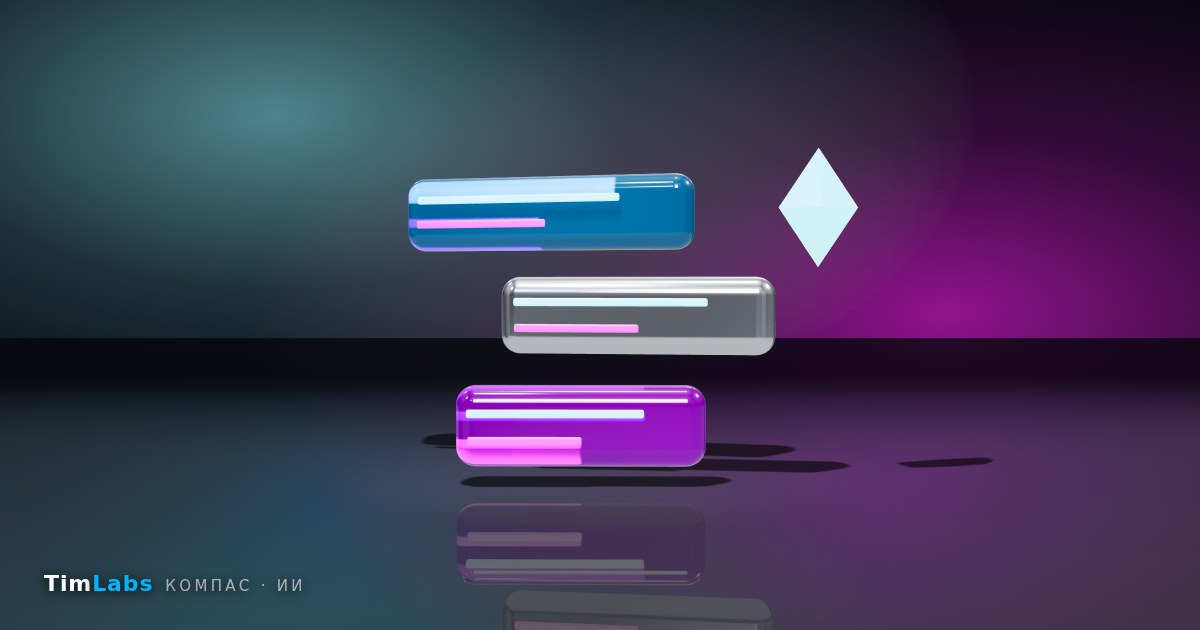
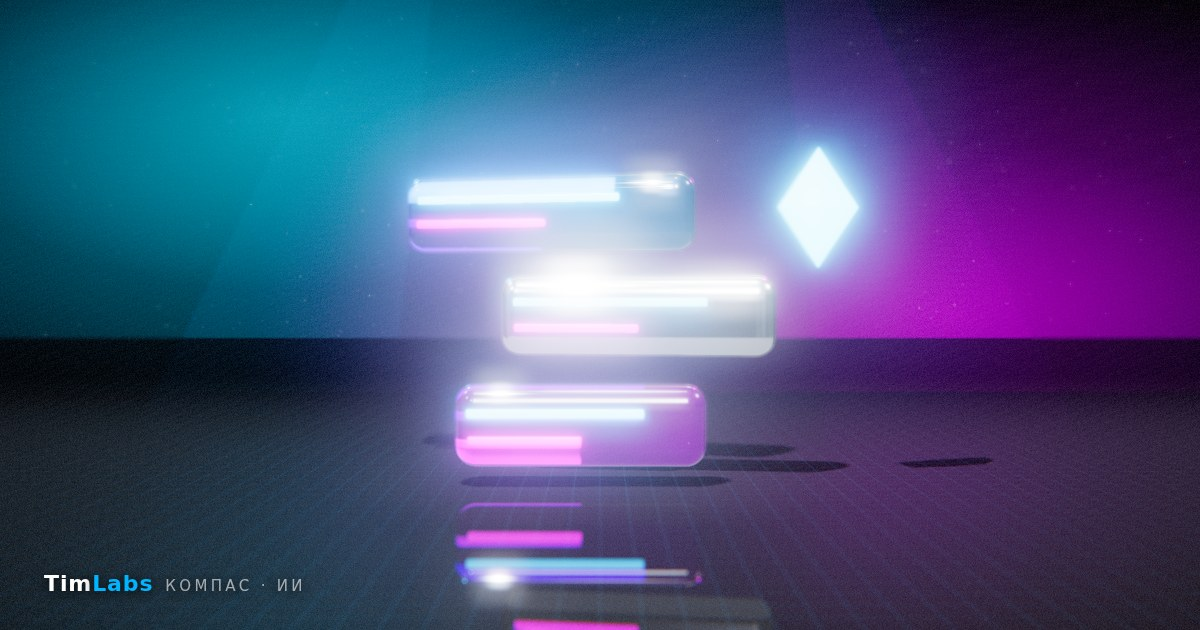
Обложки: графика как в игре — свечение неона, глубина резкости, неоновая сетка, пылинки, лучи, зерно
Claude-Session: https://claude.ai/code/session_016YepRkJqQsofeKzdWsAcDY

diff --git a/tools/covers/scene.html b/tools/covers/scene.html
@@ -9,6 +9,14 @@ import {RoundedBoxGeometry} from 'three/addons/geometries/RoundedBoxGeometry.js'
 import {FontLoader} from 'three/addons/loaders/FontLoader.js';
 import {TextGeometry} from 'three/addons/geometries/TextGeometry.js';
 import {Reflector} from 'three/addons/objects/Reflector.js';
+import {EffectComposer} from 'three/addons/postprocessing/EffectComposer.js';
+import {RenderPass} from 'three/addons/postprocessing/RenderPass.js';
+import {GTAOPass} from 'three/addons/postprocessing/GTAOPass.js';
+import {UnrealBloomPass} from 'three/addons/postprocessing/UnrealBloomPass.js';
+import {BokehPass} from 'three/addons/postprocessing/BokehPass.js';
+import {ShaderPass} from 'three/addons/postprocessing/ShaderPass.js';
+import {OutputPass} from 'three/addons/postprocessing/OutputPass.js';
+import {SMAAPass} from 'three/addons/postprocessing/SMAAPass.js';
 const P=new URLSearchParams(location.search),K=P.get('k');
 const C=['#00b4ff','#d100ff'];// фирменная гамма сайта: --cyan, --magenta
 document.documentElement.style.setProperty('--a',C[0]);
@@ -21,6 +29,10 @@ const cam=new T.PerspectiveCamera(32,1200/630,.1,100);cam.position.set(0,2.1,12.
 // floor: dark glossy
 const mir=new Reflector(new T.PlaneGeometry(60,60),{textureWidth:2400,textureHeight:1260,color:'#8a8f99'});mir.rotation.x=-Math.PI/2;s.add(mir);
 const fl=new T.Mesh(new T.PlaneGeometry(60,60),new T.MeshStandardMaterial({color:'#03040a',roughness:.6,metalness:0,transparent:true,opacity:.78,envMapIntensity:0}));fl.rotation.x=-Math.PI/2;fl.position.y=.002;s.add(fl);
+const gc=document.createElement('canvas');gc.width=gc.height=1024;const gx=gc.getContext('2d');gx.fillStyle='#000';gx.fillRect(0,0,1024,1024);
+for(let i=0;i<=16;i++){const p=i*64;for(const [c,w,a] of [[C[0],6,.10],[C[0],1.6,.55]]){gx.strokeStyle=c;gx.globalAlpha=a;gx.lineWidth=w;gx.beginPath();gx.moveTo(p,0);gx.lineTo(p,1024);gx.moveTo(0,p);gx.lineTo(1024,p);gx.stroke()}}
+gx.globalAlpha=1;const gt=new T.CanvasTexture(gc);gt.wrapS=gt.wrapT=T.RepeatWrapping;gt.repeat.set(14,14);gt.anisotropy=16;gt.colorSpace=T.SRGBColorSpace;
+const grid=new T.Mesh(new T.PlaneGeometry(60,60),new T.MeshBasicMaterial({map:gt,transparent:true,opacity:.4,blending:T.AdditiveBlending,depthWrite:false}));grid.rotation.x=-Math.PI/2;grid.position.y=.006;s.add(grid);
 const sh=new T.Mesh(new T.PlaneGeometry(60,60),new T.ShadowMaterial({opacity:.6}));sh.rotation.x=-Math.PI/2;sh.position.y=.004;sh.receiveShadow=true;s.add(sh);
 // lights
 const key=new T.SpotLight('#ffffff',170,40,.3,.85,1.6);key.position.set(-2,10,3.5);key.castShadow=true;key.shadow.mapSize.set(2048,2048);key.shadow.radius=18;key.shadow.blurSamples=32;key.shadow.bias=-.0004;key.target.position.set(0,0,0);s.add(key,key.target);
@@ -29,7 +41,7 @@ const r2=new T.PointLight(C[1],45,16,2);r2.position.set(4.5,6,-6);s.add(r2);
 const fill=new T.RectAreaLight?null:null;
 // back glow wall
 const g=document.createElement('canvas');g.width=g.height=512;const x=g.getContext('2d');x.fillStyle='#00000000';x.fillRect(0,0,512,512);
-for(const [cx,cy,c] of [[150,190,C[0]],[370,320,C[1]]]){const gr=x.createRadialGradient(cx,cy,0,cx,cy,230);gr.addColorStop(0,c+'99');gr.addColorStop(.5,c+'33');gr.addColorStop(1,c+'00');x.fillStyle=gr;x.fillRect(0,0,512,512)}
+for(const [cx,cy,c] of [[150,190,C[0]],[370,320,C[1]]]){const gr=x.createRadialGradient(cx,cy,0,cx,cy,230);gr.addColorStop(0,c+'70');gr.addColorStop(.5,c+'22');gr.addColorStop(1,c+'00');x.fillStyle=gr;x.fillRect(0,0,512,512)}
 const glow=new T.Mesh(new T.PlaneGeometry(30,15),new T.MeshBasicMaterial({map:new T.CanvasTexture(g),transparent:true,depthWrite:false,fog:false}));glow.position.set(0,3.4,-9);s.add(glow);
 const chrome=new T.MeshPhysicalMaterial({color:'#e9eef7',metalness:1,roughness:.12,clearcoat:1});
 const glass=c=>new T.MeshPhysicalMaterial({color:c||'#ffffff',metalness:0,roughness:.06,transmission:.92,thickness:.7,ior:1.45,attenuationColor:c||'#ffffff',attenuationDistance:3,clearcoat:1,iridescence:.35,emissive:c||'#223',emissiveIntensity:.18,envMapIntensity:1.6});
@@ -41,7 +53,7 @@ if(K==='funnel'){
   add(new T.Mesh(new T.TorusGeometry(1.97,.06,24,200),chrome)).position.y=2.85;add(new T.Mesh(new T.TorusGeometry(1.97,.06,24,200),chrome)).rotation.x=Math.PI/2;
   s.children.at(-1).position.y=2.85;s.children.at(-2).rotation.x=Math.PI/2;
   for(let i=0;i<22;i++){const a=i*2.4,rr=.4+((i*37)%100)/100*1.3,h=2.4+((i*53)%100)/100*1.6;const b=add(new T.Mesh(new T.SphereGeometry(.07+((i*13)%5)*.025,32,32),i%3?chrome:neon(i%2?C[0]:C[1])));b.position.set(Math.cos(a)*rr,h,Math.sin(a)*rr*.6)}
-  s.children.forEach(m=>{if(m.isMesh&&m!==fl&&m!==glow&&m!==mir&&m!==sh)m.position.y+=.55});const o=add(new T.Mesh(new T.SphereGeometry(.26,64,64),neon(C[1])));o.position.y=.55;const ped=add(new T.Mesh(new T.CylinderGeometry(.9,1.05,.2,96),chrome));ped.position.y=.1;
+  s.children.forEach(m=>{if(m.isMesh&&m!==fl&&m!==glow&&m!==mir&&m!==sh&&m!==grid)m.position.y+=.55});const o=add(new T.Mesh(new T.SphereGeometry(.26,64,64),neon(C[1])));o.position.y=.55;const ped=add(new T.Mesh(new T.CylinderGeometry(.9,1.05,.2,96),chrome));ped.position.y=.1;
 }
 if(K==='agents'){
   const core=add(new T.Mesh(new T.IcosahedronGeometry(1.15,1),glass(C[1])));core.position.y=1.7;core.rotation.set(.3,.5,0);
@@ -67,5 +79,21 @@ async function si(){const f=await new FontLoader().loadAsync('./node_modules/thr
   const bar=add(new T.Mesh(new T.CylinderGeometry(.06,.06,2.9,32),neon(C[1])));bar.position.set(-1.75,1.3,.55);bar.rotation.z=-1.05;
   const ar=add(new T.Mesh(new T.ConeGeometry(.22,.5,48),chrome));ar.position.set(.05,1.25,0);ar.rotation.z=-Math.PI/2;}
 if(K==='si')await si();
-r.render(s,cam);document.title='done';
+// пылинки в свете
+{const n=900,pos=new Float32Array(n*3),col=new Float32Array(n*3);const ca=new T.Color(C[0]),cb=new T.Color(C[1]),cw=new T.Color('#ffffff');
+for(let i=0;i<n;i++){const a=Math.random();pos.set([(Math.random()-.5)*14,Math.random()*6,(Math.random()-.5)*8-1],i*3);const c=a<.4?ca:a<.7?cb:cw;col.set([c.r,c.g,c.b],i*3)}
+const sg=document.createElement('canvas');sg.width=sg.height=64;const sx=sg.getContext('2d');const rg=sx.createRadialGradient(32,32,0,32,32,32);rg.addColorStop(0,'#fff');rg.addColorStop(.3,'#ffffff88');rg.addColorStop(1,'#fff0');sx.fillStyle=rg;sx.fillRect(0,0,64,64);
+const pg=new T.BufferGeometry();pg.setAttribute('position',new T.BufferAttribute(pos,3));pg.setAttribute('color',new T.BufferAttribute(col,3));
+s.add(new T.Points(pg,new T.PointsMaterial({size:.05,map:new T.CanvasTexture(sg),vertexColors:true,transparent:true,opacity:.75,depthWrite:false,blending:T.AdditiveBlending})));}
+// объёмные лучи света
+for(const [x,c] of [[-3.2,C[0]],[3.4,C[1]]]){const cone=new T.Mesh(new T.ConeGeometry(1.6,9,64,1,true),new T.MeshBasicMaterial({color:c,transparent:true,opacity:.014,blending:T.AdditiveBlending,depthWrite:false,side:T.DoubleSide,fog:false}));cone.position.set(x,4.3,-2.5);cone.rotation.z=x<0?-.28:.28;s.add(cone)}
+const W=1200,H=630,comp=new EffectComposer(r);comp.setPixelRatio(2);comp.setSize(W,H);
+comp.addPass(new RenderPass(s,cam));
+
+comp.addPass(new UnrealBloomPass(new T.Vector2(W,H),.5,.4,.86));
+const bk=new BokehPass(s,cam,{focus:cam.position.distanceTo(new T.Vector3(0,1.7,0)),aperture:.0018,maxblur:.006});comp.addPass(bk);
+comp.addPass(new ShaderPass({uniforms:{tDiffuse:{value:null},t:{value:7.3}},vertexShader:'varying vec2 v;void main(){v=uv;gl_Position=projectionMatrix*modelViewMatrix*vec4(position,1.);}',
+ fragmentShader:'uniform sampler2D tDiffuse;uniform float t;varying vec2 v;float h(vec2 p){return fract(sin(dot(p,vec2(12.9898,78.233))+t)*43758.5453);}void main(){vec2 d=v-.5;float r=dot(d,d);vec2 o=d*r*.012;vec3 c=vec3(texture2D(tDiffuse,v+o).r,texture2D(tDiffuse,v).g,texture2D(tDiffuse,v-o).b);c*=1.-r*.95;c+=(h(v*1000.)-.5)*.035;gl_FragColor=vec4(c,1.);}'}));
+comp.addPass(new OutputPass());comp.addPass(new SMAAPass(W*2,H*2));
+comp.render();document.title='done';
 </script></body></html>

diff --git a/tools/covers/README.md b/tools/covers/README.md
@@ -4,3 +4,5 @@
 Мотивы (`?k=`): funnel, agents, channel, seo, si — сцена в `scene.html`, соответствие slug — в `r3d.js`.
 Новая статья ИИ-рубрики: добавить мотив в scene.html и строку в map → `media/covers/<slug>.jpg`;
 `tools/monetize_patch.py` сам ставит картинку под шапкой и в og:image.
+
+Графика «как в игре» (10.10): пост-обработка EffectComposer — неоновое свечение (UnrealBloom), глубина резкости (Bokeh), хроматическая аберрация, виньетка, плёночное зерно, сглаживание SMAA; неоновая сетка на полу, пылинки в свете, объёмные лучи.
